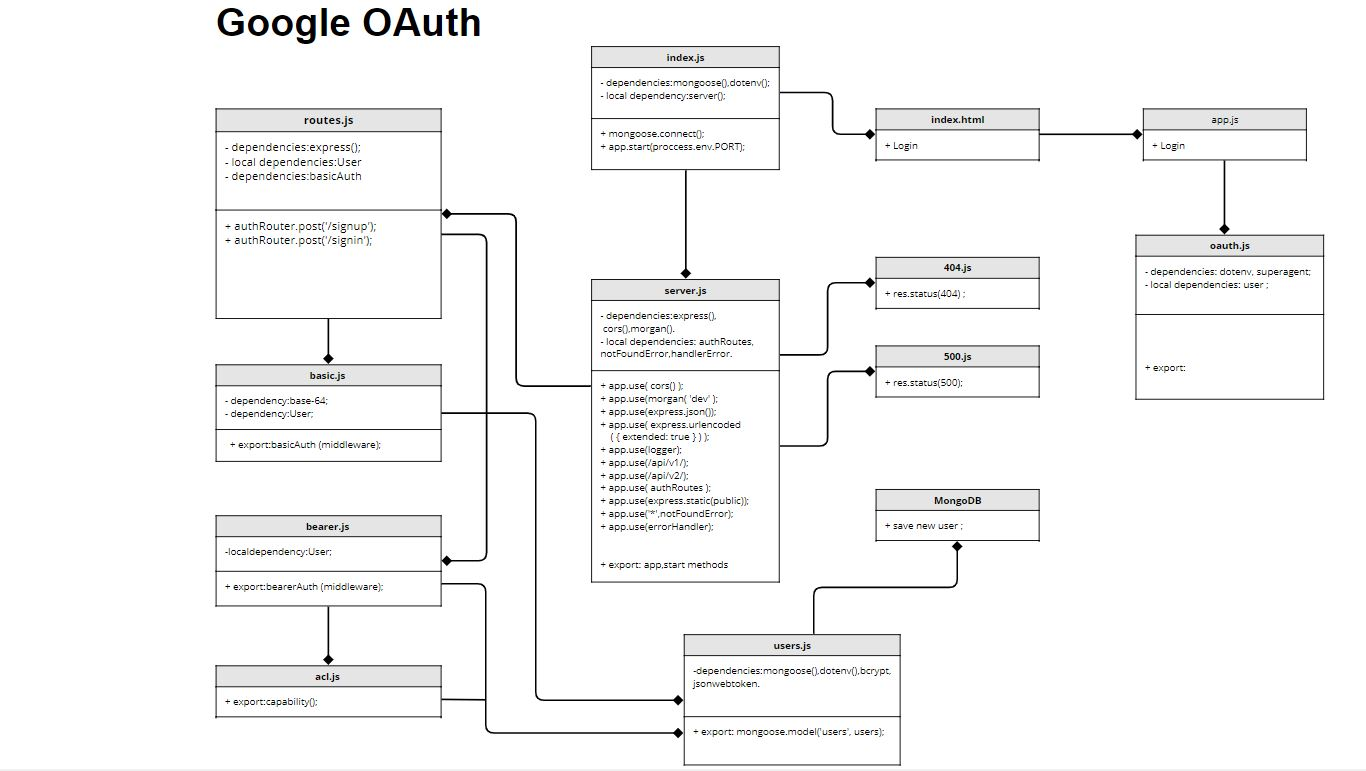
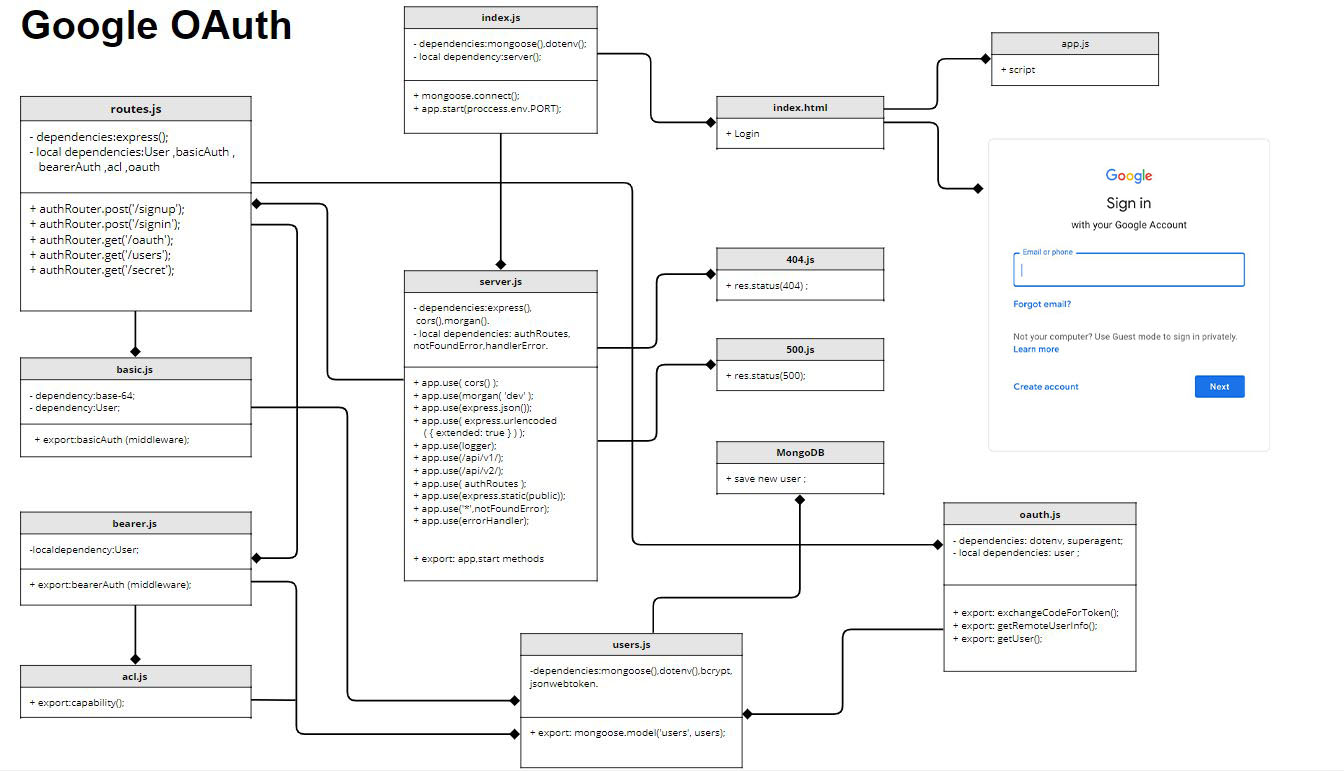
update UML diagram

diff --git a/src/public/app.js b/src/public/app.js
@@ -3,15 +3,20 @@
 const authorizeUrl = 'https://accounts.google.com/o/oauth2/auth';
 
 const options = {
-  client_id: '250737487040-v6888e4ro2ob1t51bb5cnfaevmbdqaqd.apps.googleusercontent.com',
-  scope: ['https://www.googleapis.com/auth/userinfo.profile','https://www.googleapis.com/auth/userinfo.email'].join(' '), state: 'some_random_string'
+  client_id: '190084133353-8h1knp422g6tt64kvd3gm2qbdo8b6r3c.apps.googleusercontent.com',
+  scope: ['https://www.googleapis.com/auth/userinfo.profile', 'https://www.googleapis.com/auth/userinfo.email'].join( ' ' ), 
+  state: 'some_random_string'
 };
 
-const queryString = Object.keys( options ).map( ( val )=> `${val}=${encodeURIComponent( options[val] )}` )
+const queryString = Object.keys( options )
+  .map( ( val ) => {
+    return `${val}=${encodeURIComponent( options[val] )}`;
+
+  } )
   .join( '&' );
 
 const authUrl = `${authorizeUrl}?${queryString}`;
 
-const aTag = document.getElementById( 'oauth' ) ;
-aTag.setAttribute( 'href',authUrl );
+const aTag = document.getElementById( 'oauth' );
+aTag.setAttribute( 'href', authUrl );
 

diff --git a/src/server.js b/src/server.js
@@ -3,29 +3,27 @@
 const express = require( 'express' );
 const cors = require( 'cors' );
 const morgan = require( 'morgan' );
-const superagent = require ( 'superagent' ) ;
 
 const notFoundHandler = require( '../src/error-handlers/404.js' );
 const errorHandler = require( '../src/error-handlers/500.js' );
-const logger = require( '../src/auth/middleware/logger.js' );
+// const logger = require( '../src/auth/middleware/logger.js' );
 const authRoutes = require( '../src/auth/route.js' );
-
 const v1Routes = require( '../src/routes/v1.js' );
 const v2Routes = require( '../src/routes/v2.js' );
 
 const app = express();
 
+app.use( cors() );
+app.use( morgan( 'dev' ) );
 app.use( express.json() );
 app.use( express.urlencoded( { extended: true } ) );
 app.use( express.static( './public' ) );
+// app.use( logger );
 
-app.use( logger );
-app.use( cors() );
-app.use( morgan( 'dev' ) );
-
+app.use( authRoutes );
 app.use( '/api/v1', v1Routes );
 app.use( '/api/v2', v2Routes );
-app.use( authRoutes );
+
 
 app.use( '*', notFoundHandler );
 app.use( errorHandler );

diff --git a/src/oauth.js b/src/oauth.js
@@ -2,11 +2,10 @@
 
 require('dotenv').config();
 
-const { query } = require('express');
 const superagent = require('superagent');
 const User = require('./models/users.js');
-const tokenServerUrl = 'https://accounts.google.com/o/oauth2/token';
 
+const tokenServerUrl = 'https://accounts.google.com/o/oauth2/token';
 const remoteAPI = 'https://accounts.google.com/o/oauth2/auth';
 
 const CLIENT_ID = process.env.CLIENT_ID;
@@ -28,7 +27,7 @@ module.exports = async (req, res, next) => {
     } catch (error) {
         next(error.message);
     }
-}
+};
 
 async function exchangeCodeForToken(code) {
     const tokenResponse = await superagent.post(tokenServerUrl)
@@ -50,7 +49,7 @@ async function getUser(remoteUser) {
     const user = { username: remoteUser.login, password: 'this_should_be_empty' };
     const userObj = new User(user);
     const userDoc = userObj.save();
-    const token = userDoc.token();
+    const token = userDoc.token;
 
     return [user, token];
 }

diff --git a/src/models/data-collection.js b/src/models/data-collection.js
@@ -6,30 +6,30 @@
 
 class DataCollection {
 
-  constructor(model) {
+  constructor( model ) {
     this.model = model;
   }
 
-  get(_id) {
-    if (_id) {
-      return this.model.findOne({ _id });
+  get( _id ) {
+    if ( _id ) {
+      return this.model.findOne( { _id } );
     }
     else {
-      return this.model.find({});
+      return this.model.find( {} );
     }
   }
 
-  create(record) {
-    let newRecord = new this.model(record);
+  create( record ) {
+    let newRecord = new this.model( record );
     return newRecord.save();
   }
 
-  update(_id, record) {
-    return this.model.findByIdAndUpdate(_id, record, { new: true });
+  update( _id, record ) {
+    return this.model.findByIdAndUpdate( _id, record, { new: true } );
   }
 
-  delete(_id) {
-    return this.model.findByIdAndDelete(_id);
+  delete( _id ) {
+    return this.model.findByIdAndDelete( _id );
   }
 
 }

diff --git a/src/auth/route.js b/src/auth/route.js
@@ -7,6 +7,7 @@ const User = require('../models/users.js');
 const basicAuth = require('./middleware/basic.js');
 const bearerAuth = require('./middleware/bearer.js');
 const permissions = require('./middleware/acl.js');
+const oauth = require('../oauth.js')
 
 authRouter.post('/signup', async (req, res, next) => {
   try {
@@ -28,6 +29,10 @@ authRouter.post('/signin', basicAuth, (req, res, next) => {
     token: req.user.token
   };
   res.status(200).json(user);
+});
+
+authRouter.get('/oauth', oauth, (req, res) => {
+  res.json({ token: req.token, user: req.user })
 });
 
 authRouter.get('/users', bearerAuth, permissions('delete'), async (req, res, next) => {

diff --git a/src/auth/middleware/acl.js b/src/auth/middleware/acl.js
@@ -1,20 +1,20 @@
 'use strict';
 
-module.exports = (capability) => {
+module.exports = ( capability ) => {
 
-  return (req, res, next) => {
+  return ( req, res, next ) => {
 
     try {
-      if (req.user.capabilities.includes(capability)) {
+      if ( req.user.capabilities.includes( capability ) ) {
         next();
       }
       else {
-        next('Access Denied');
+        next( 'Access Denied' );
       }
-    } catch (e) {
-      next('Invalid Login');
+    } catch ( e ) {
+      next( 'Invalid Login' );
     }
 
-  }
+  };
 
-}
+};

diff --git a/src/models/food/model.js b/src/models/food/model.js
@@ -1,13 +1,13 @@
 'use strict';
 
-const mongoose = require('mongoose');
+const mongoose = require( 'mongoose' );
 
-const foodSchema = mongoose.Schema({
+const foodSchema = mongoose.Schema( {
   name: { type: String, required: true },
   calories: { type: Number, required: true },
   type: { type: String, uppercase: true, enum: ['FRUIT', 'VEGETABLE', 'PROTIEN'] },
-});
+} );
 
-const foodModel = mongoose.model('food', foodSchema);
+const foodModel = mongoose.model( 'food', foodSchema );
 
 module.exports = foodModel;

diff --git a/src/models/clothes/model.js b/src/models/clothes/model.js
@@ -1,13 +1,13 @@
 'use strict';
 
-const mongoose = require('mongoose');
+const mongoose = require( 'mongoose' );
 
-const clothesSchema = mongoose.Schema({
+const clothesSchema = mongoose.Schema( {
   name: { type: String, required: true },
   color: { type: String, required: true },
   size: { type: String, required: true }
-});
+} );
 
-const clothesModel = mongoose.model('clothes', clothesSchema);
+const clothesModel = mongoose.model( 'clothes', clothesSchema );
 
 module.exports = clothesModel;

diff --git a/src/auth/middleware/logger.js b/src/auth/middleware/logger.js
@@ -2,11 +2,11 @@
 
 // All middleware has access to the request.
 // Here, we're simply logging out the interesting parts
-const logger = (req, res, next) => {
-  console.log('REQUEST:', req.method, req.path);
+const logger = ( req, res, next ) => {
+  console.log( 'REQUEST:', req.method, req.path );
 
   // Call next() so that the next function in line can do it's work
   next();
-}
+};
 
 module.exports = logger;

diff --git a/index.js b/index.js
@@ -16,6 +16,6 @@ mongoose.connect( process.env.MONGODB_URI, options )
   } )
 
   .catch( ( e ) => {
-    console.log( 'CONNECTION_ERROR', e.mssage );
+    console.log( 'CONNECTION_ERROR', e.message );
   } );
 
